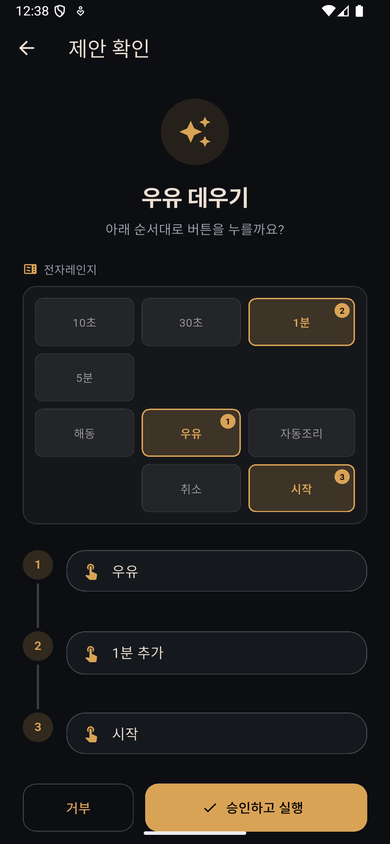
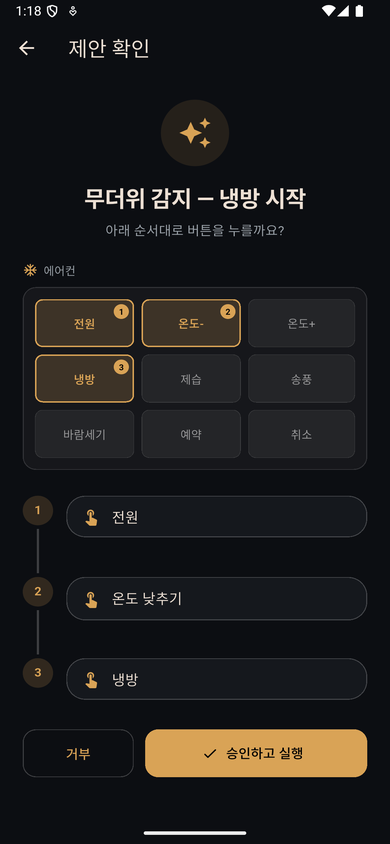
feat(app): 제안 데모 시나리오를 전자레인지 우유에서 에어컨 냉방으로 교체
전자레인지에 우유 데우기 코스가 있다는 설정이 부자연스럽다는 피드백을
반영해, 데모 시뮬레이션(제안 시뮬레이션 버튼)이 만드는 목데이터를
무더위 상황에 어울리는 "냉방 시작" 시나리오로 바꿨다.

- kAppliances에 에어컨(전원/온도-/온도+/냉방/제습/송풍/바람세기/예약/취소)
  가전을 새로 추가
- demo_service.dart의 목데이터를 전자레인지 BT-08/03/05(우유→1분→시작)에서
  에어컨 AC-01/02/04(전원→온도-→냉방)으로 교체
- suggestion.dart의 buttonLabels에 AC-01~09 라벨 추가
- app_home.png/app_suggestion.png 스크린샷을 새 시나리오로 재촬영

전체 93개 테스트 통과.

diff --git a/app/lib/models/appliance.dart b/app/lib/models/appliance.dart
@@ -123,4 +123,22 @@ const kAppliances = <ApplianceMap>[
       ApplianceButton(id: 'IN-10', label: '취소',  x: 3, y: 2),
     ],
   ),
+  ApplianceMap(
+    id: 'aircon',
+    name: '에어컨',
+    icon: Icons.ac_unit,
+    rows: 3,
+    cols: 3,
+    buttons: [
+      ApplianceButton(id: 'AC-01', label: '전원',    x: 0, y: 0),
+      ApplianceButton(id: 'AC-02', label: '온도-',   x: 1, y: 0),
+      ApplianceButton(id: 'AC-03', label: '온도+',   x: 2, y: 0),
+      ApplianceButton(id: 'AC-04', label: '냉방',    x: 0, y: 1),
+      ApplianceButton(id: 'AC-05', label: '제습',    x: 1, y: 1),
+      ApplianceButton(id: 'AC-06', label: '송풍',    x: 2, y: 1),
+      ApplianceButton(id: 'AC-07', label: '바람세기', x: 0, y: 2),
+      ApplianceButton(id: 'AC-08', label: '예약',    x: 1, y: 2),
+      ApplianceButton(id: 'AC-09', label: '취소',    x: 2, y: 2),
+    ],
+  ),
 ];

diff --git a/app/lib/models/suggestion.dart b/app/lib/models/suggestion.dart
@@ -36,6 +36,15 @@ const buttonLabels = <String, String>{
   'BT-07': '해동',
   'BT-08': '우유',
   'BT-09': '자동조리',
+  'AC-01': '전원',
+  'AC-02': '온도 낮추기',
+  'AC-03': '온도 올리기',
+  'AC-04': '냉방',
+  'AC-05': '제습',
+  'AC-06': '송풍',
+  'AC-07': '바람세기',
+  'AC-08': '예약',
+  'AC-09': '취소',
 };
 
 String readableStep(String code) => buttonLabels[code] ?? code;

diff --git a/app/lib/services/demo_service.dart b/app/lib/services/demo_service.dart
@@ -12,8 +12,8 @@ class DemoService {
   static const _suggestion = {
     'type': 'suggestion',
     'sequence_id': 'demo-001',
-    'label': '우유 데우기',
-    'steps': ['BT-08', 'BT-03', 'BT-05'],
+    'label': '무더위 감지 — 냉방 시작',
+    'steps': ['AC-01', 'AC-02', 'AC-04'],
   };
 
   void injectSuggestion() {
